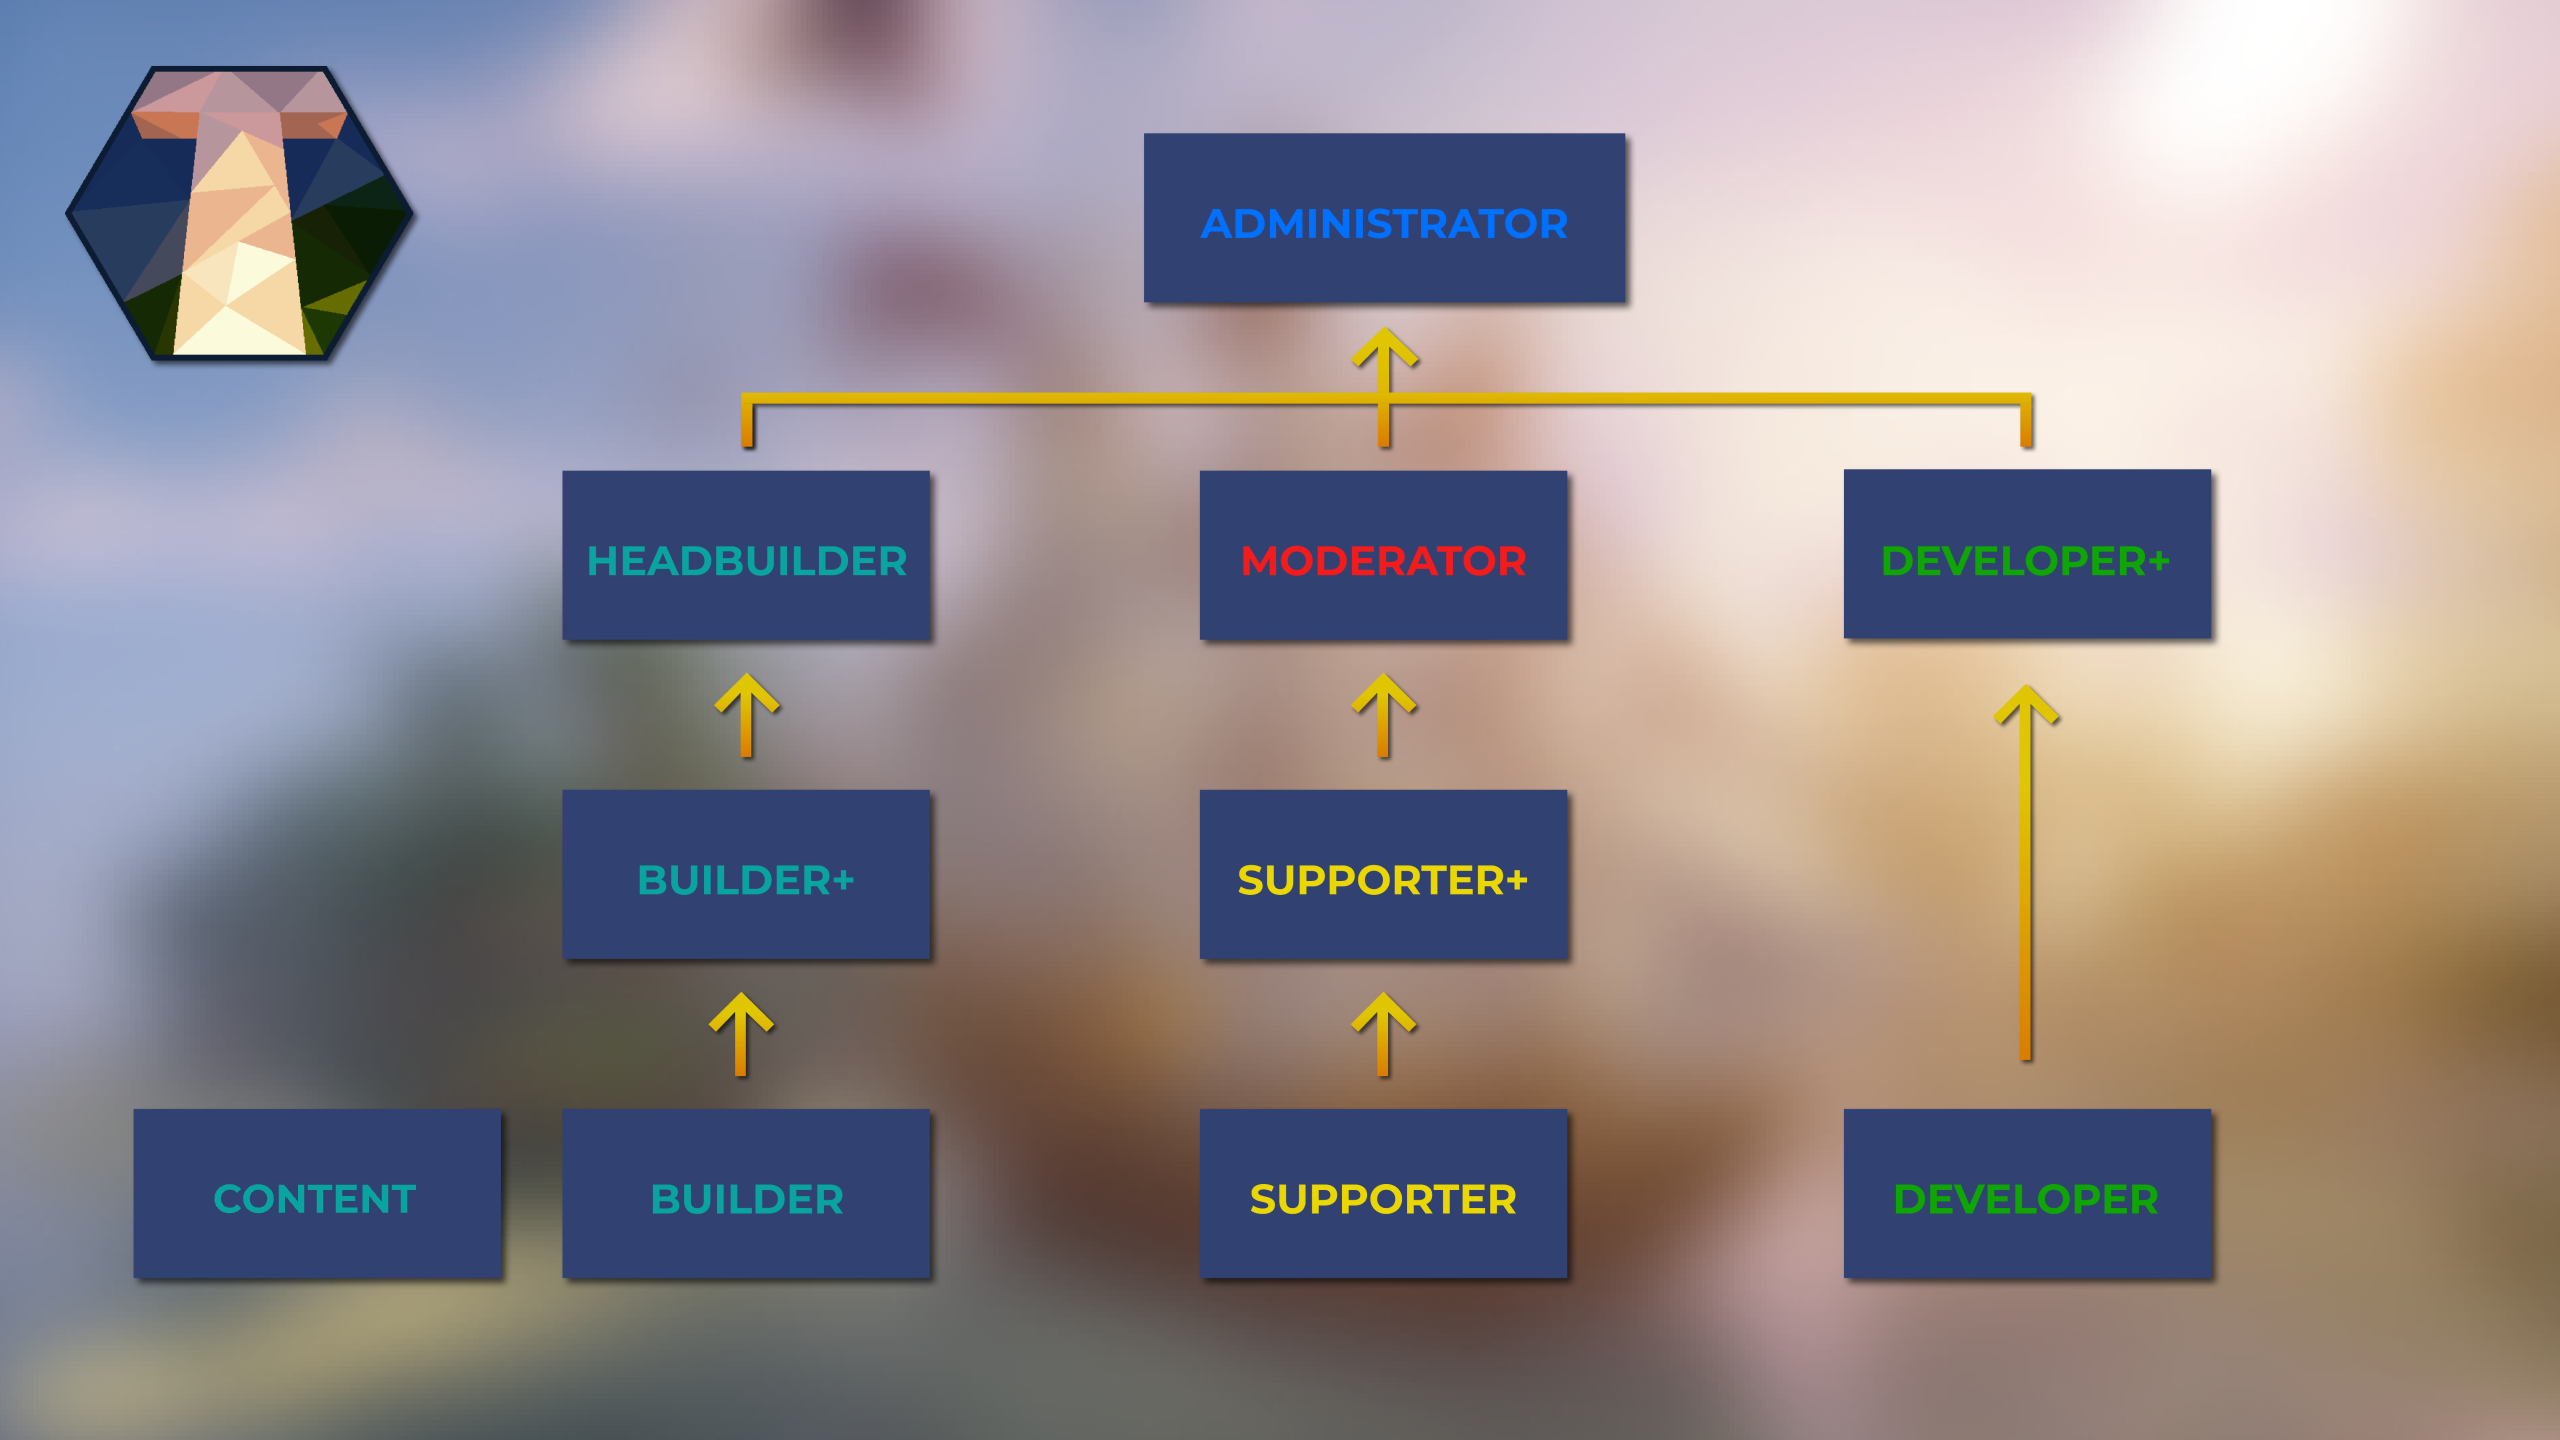
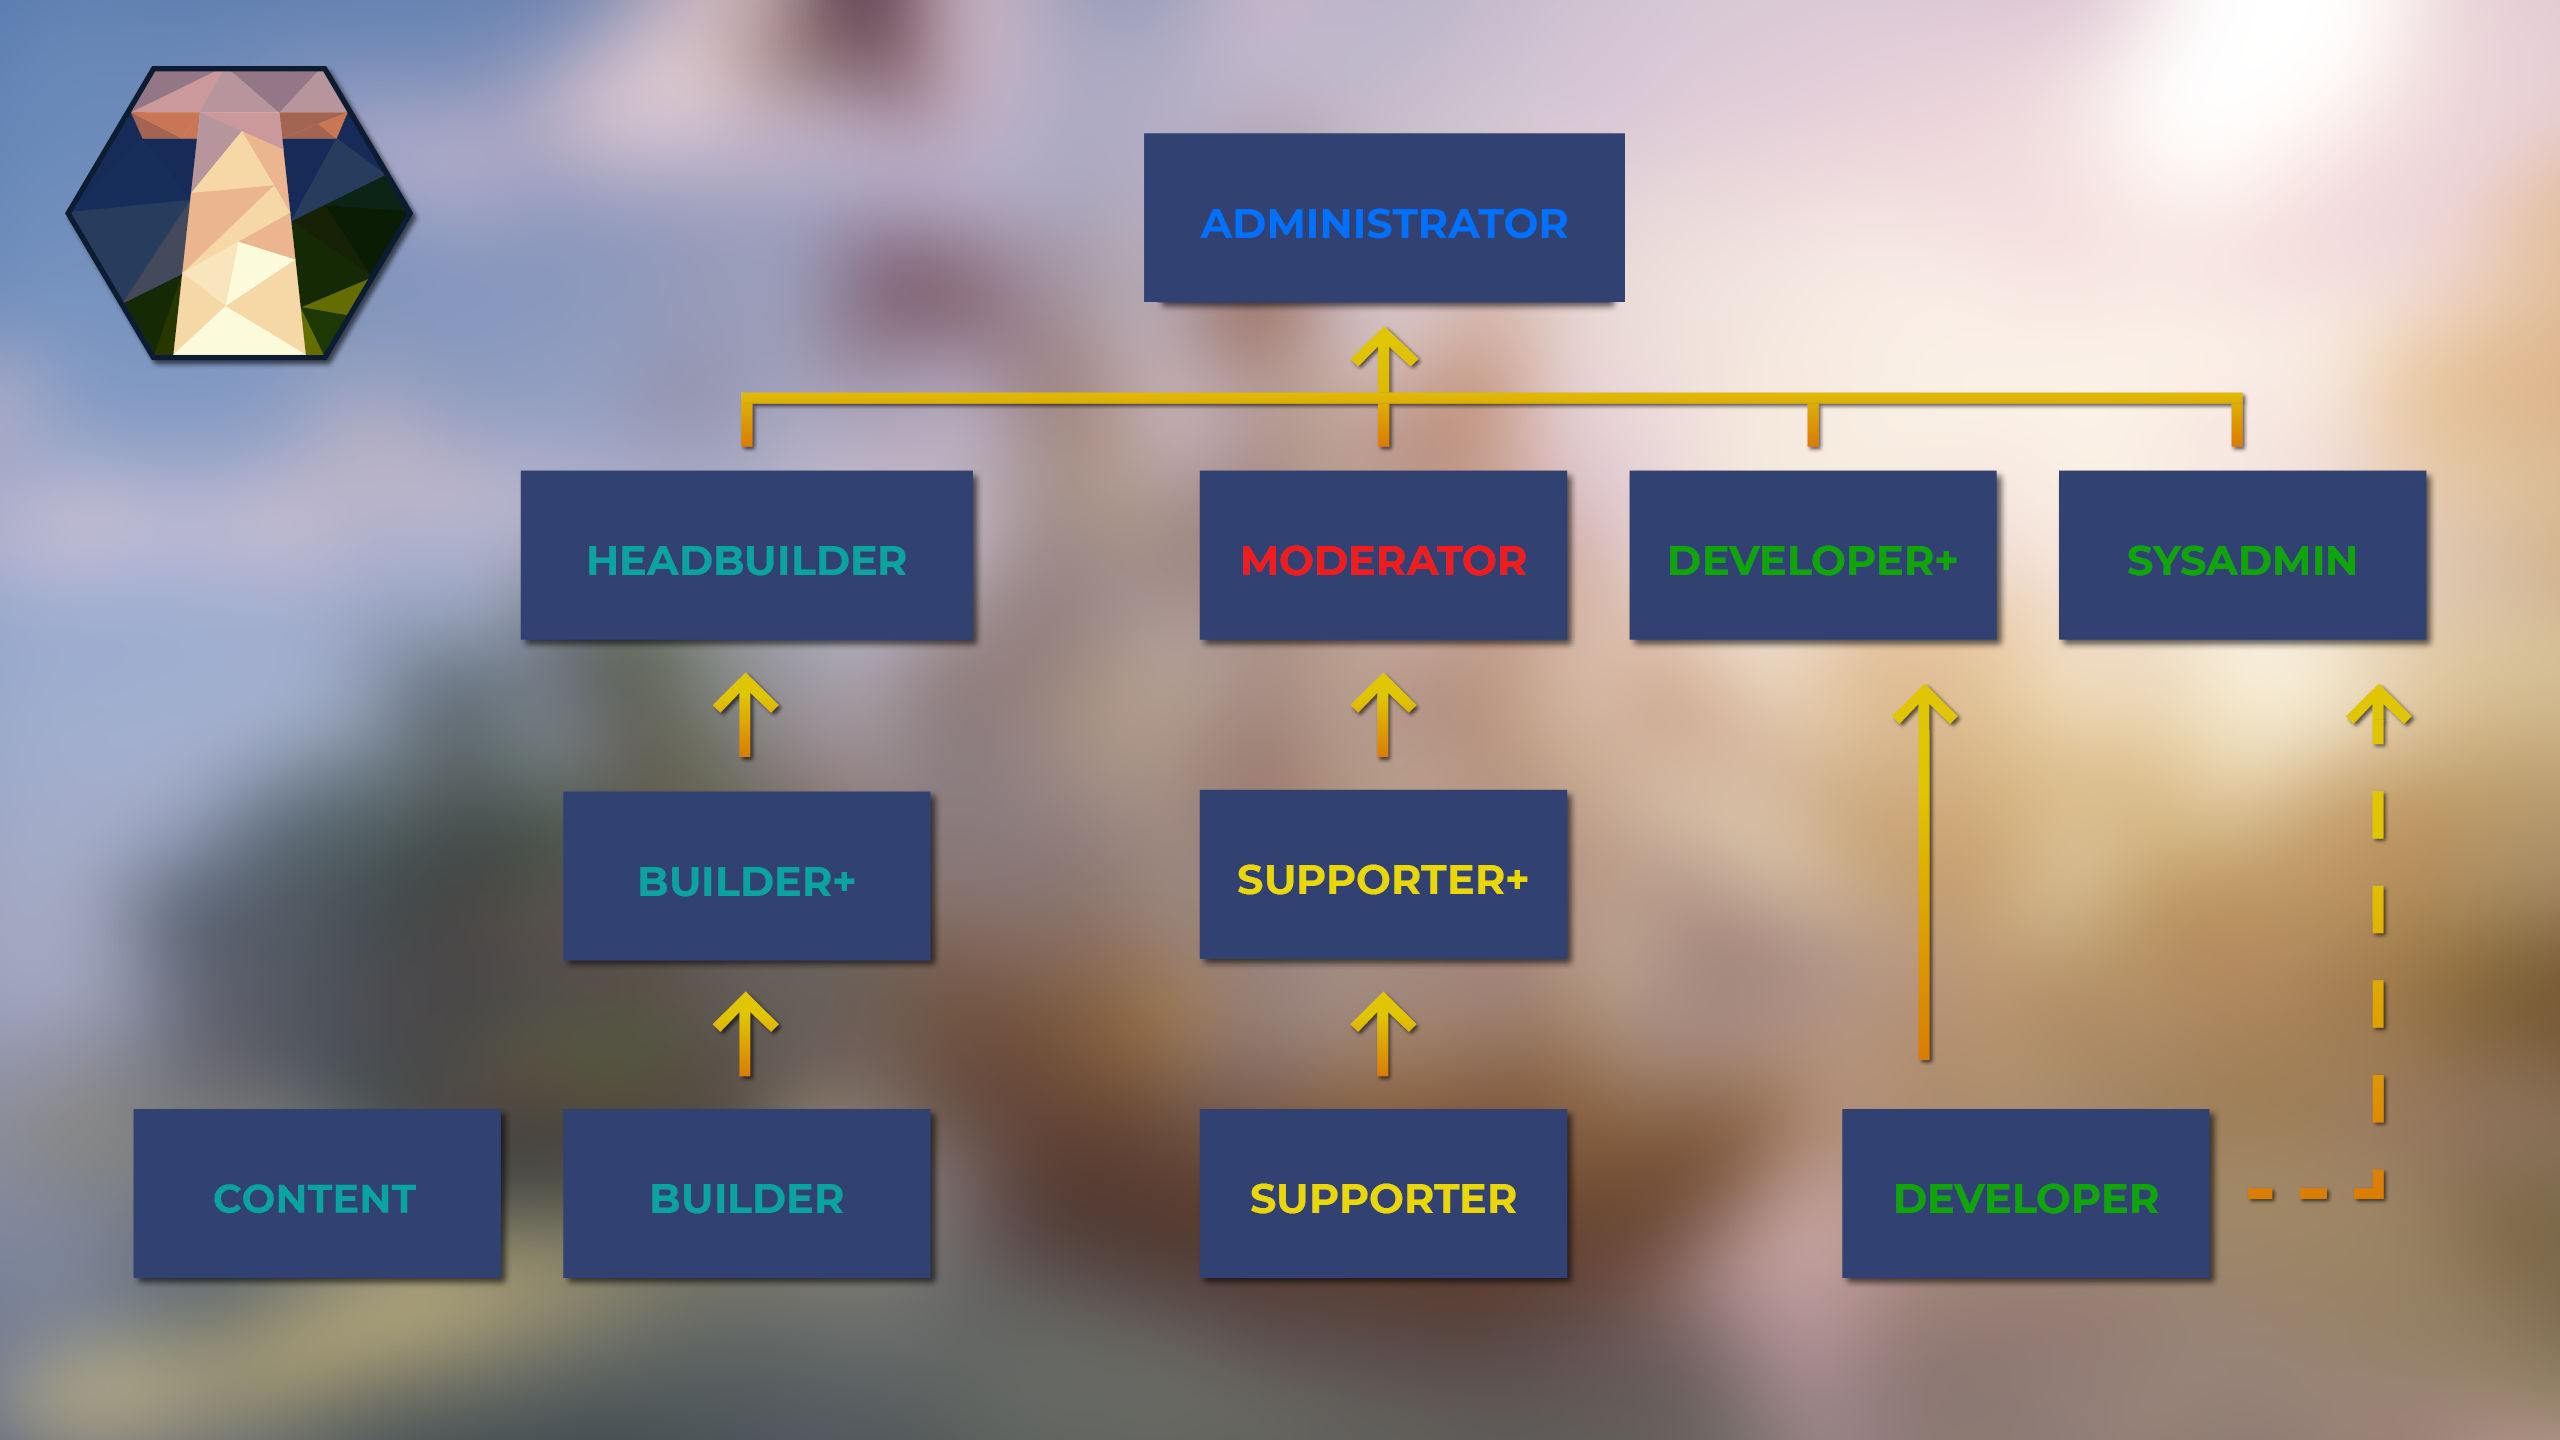
SysAdmins Comeback (#78)
* SysAdmins Comeback

* Thomas rückzug

* SysAdmin Comeback

Sysadmin aber auch Admin und Content als Teamler

* SysAdmin Info de

Keine Bewerbung für SysAdmin Möglich

* SysAdmin in die obere Liste

* SysAdmin, Management | EN

* Rename content-ranks.png to content-ranks-old.png

* New Image with SysAdmin, Content & Admin

* SysAdmin höher gestellt

* sysadmin höhergestellt

* Englisch SysAdmin now Higher

diff --git a/docs/team/apply.de.md b/docs/team/apply.de.md
@@ -1,6 +1,6 @@
-Ob und wie du dich im Bereich Administration, Development, Moderation, Support, Building oder Content bewerben kannst, erfährst du hier.
+Ob und wie du dich im Bereich Administration, System Administration, Development, Moderation, Support, Building oder Content bewerben kannst, erfährst du hier.
 
-### Administration und Moderation
+### Administration, System-Administration und Moderation
 Diese Ränge werden nur an aktive Teammitglieder vergeben. Außenstehende können sich nicht auf diese Ränge bewerben. 
 Sie übernehmen große Verantwortung in organisatorischen und verwaltungstechnischen Bereichen und ihre Positionen erfordern intensives Wissen über die interne Struktur Timolias.
 
@@ -42,7 +42,6 @@ Für eine erfolgreiche Bewerbung ist es notwendig, dass du uns einen kleinen Ein
 Wir achten vor allem auf sauberen, gut kommentierten Code, der deine Fähigkeiten widerspiegelt. Auch solltest du auf die Einhaltung der Java-Konventionen achten und keine obsoleten Anweisungen verwenden. 
 
 Teammitglieder des <b>Development+</b> Rangs verfügen über eine langjährige Erfahrung als Entwickler auf Timolia und stehen bei internen Fragen zum Development zur Verfügung. Bewerbungen für diesen Rang sind daher nicht möglich.
-
 
 ### Support
 Sollten neue Teammitglieder im Supportbereich gesucht werden, überprüft das Team, welche Spieler:innen besonders aktiv auf dem Netzwerk sind und positiv auffallen.

diff --git a/docs/team/apply.en.md b/docs/team/apply.en.md
@@ -1,6 +1,6 @@
-Here you can find out more about whether and how you can apply in the area of Administration, Development, Moderation, Support, Building or Content.
+Here you can find out more about whether and how you can apply in the area of Administration, System-Administration, Development, Moderation, Support, Building or Content.
 
-### Management, Moderator and System-Administrator
+### Administration, System-Administration and Moderation 
 These ranks are only given to active team members. External persons cannot apply for these ranks. 
 They take great responsibility in organizational and administrative areas and their positions require intensive knowledge of Timolia's internal structure.
 
